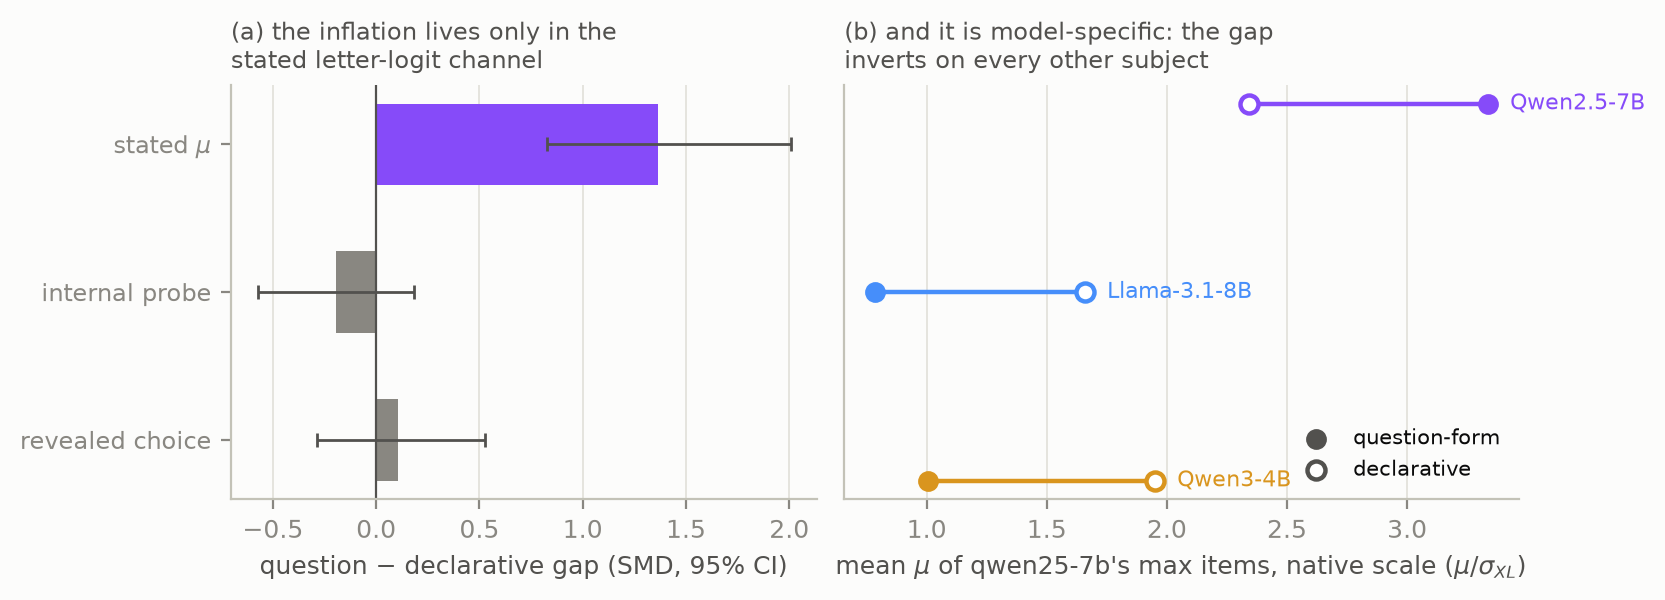
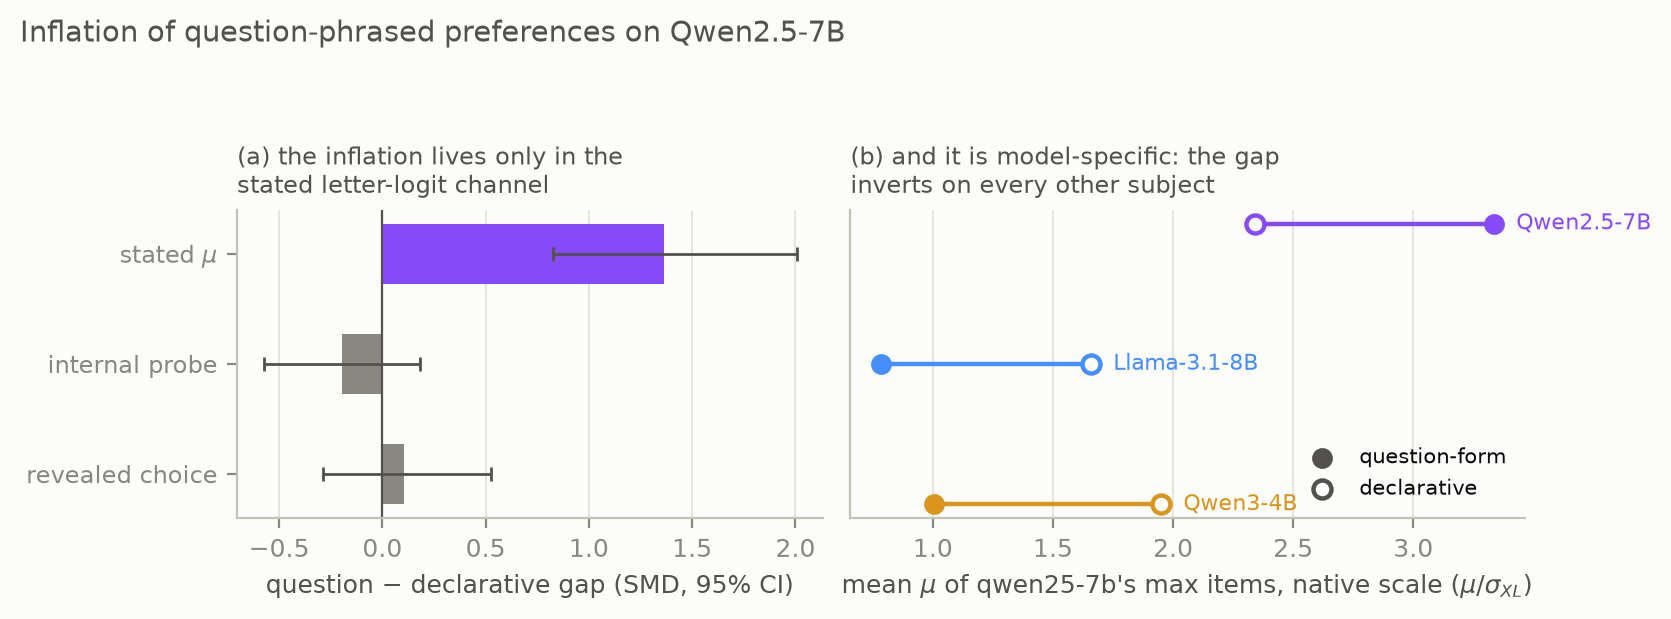
P1: f39 gains its suptitle

diff --git a/p1/scripts/surf_figures.py b/p1/scripts/surf_figures.py
@@ -242,7 +242,9 @@ def f39():
     ax2.set_title("(b) and it is model-specific: the gap\ninverts on every other subject",
                   fontsize=8.5, color=INK2, loc="left")
     style(ax2, grid_axis="x")
-    fig.tight_layout()
+    fig.suptitle("Inflation of question-phrased preferences on Qwen2.5-7B",
+                 fontsize=10.5, color=INK2, x=0.01, ha="left")
+    fig.tight_layout(rect=(0, 0, 1, 0.92))
     save(fig, FIGS / "f39_question_artifact.png")
 
 
